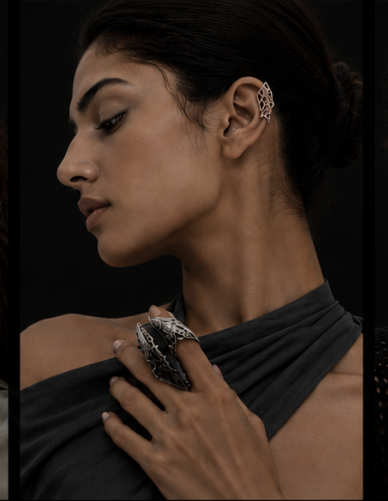
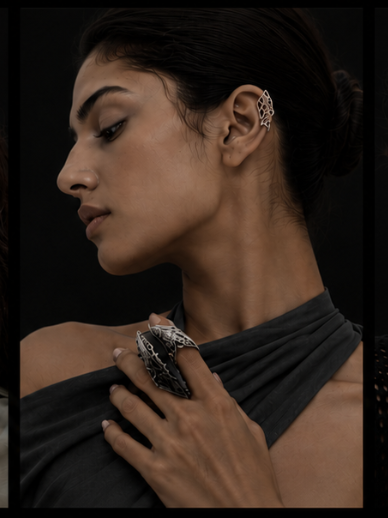
v2 collection: show the full product photo instead of cropping
- Card frame uses the Figma 404/381 ratio so it scales instead of going
  short and wide at large viewports
- Restore the untrimmed source images and fit them (object-contain) so the
  whole photo is visible, letterboxed by the card as in the design

diff --git a/src/app/v2/page.tsx b/src/app/v2/page.tsx
@@ -446,7 +446,8 @@ function SignatureCard({ product }: { product: (typeof SIGNATURE)[number] }) {
 
   return (
     <article className="group relative overflow-hidden rounded-[3px] border border-[#2a2a29] bg-[#080707]">
-      <div ref={frameRef} className="relative h-[381px] w-full overflow-hidden">
+      {/* keeps the Figma card ratio so the photo scales instead of cropping */}
+      <div ref={frameRef} className="relative aspect-[404/381] w-full overflow-hidden">
         <AnimatePresence mode="wait">
           <motion.img
             key={active.image}
@@ -456,7 +457,7 @@ function SignatureCard({ product }: { product: (typeof SIGNATURE)[number] }) {
             animate={{ opacity: 1, scale: 1 }}
             exit={{ opacity: 0 }}
             transition={{ duration: 0.5, ease: EASE }}
-            className="absolute inset-0 h-full w-full object-cover"
+            className="absolute inset-0 h-full w-full object-contain"
           />
         </AnimatePresence>
         {/* legibility wash for the overlaid copy */}
